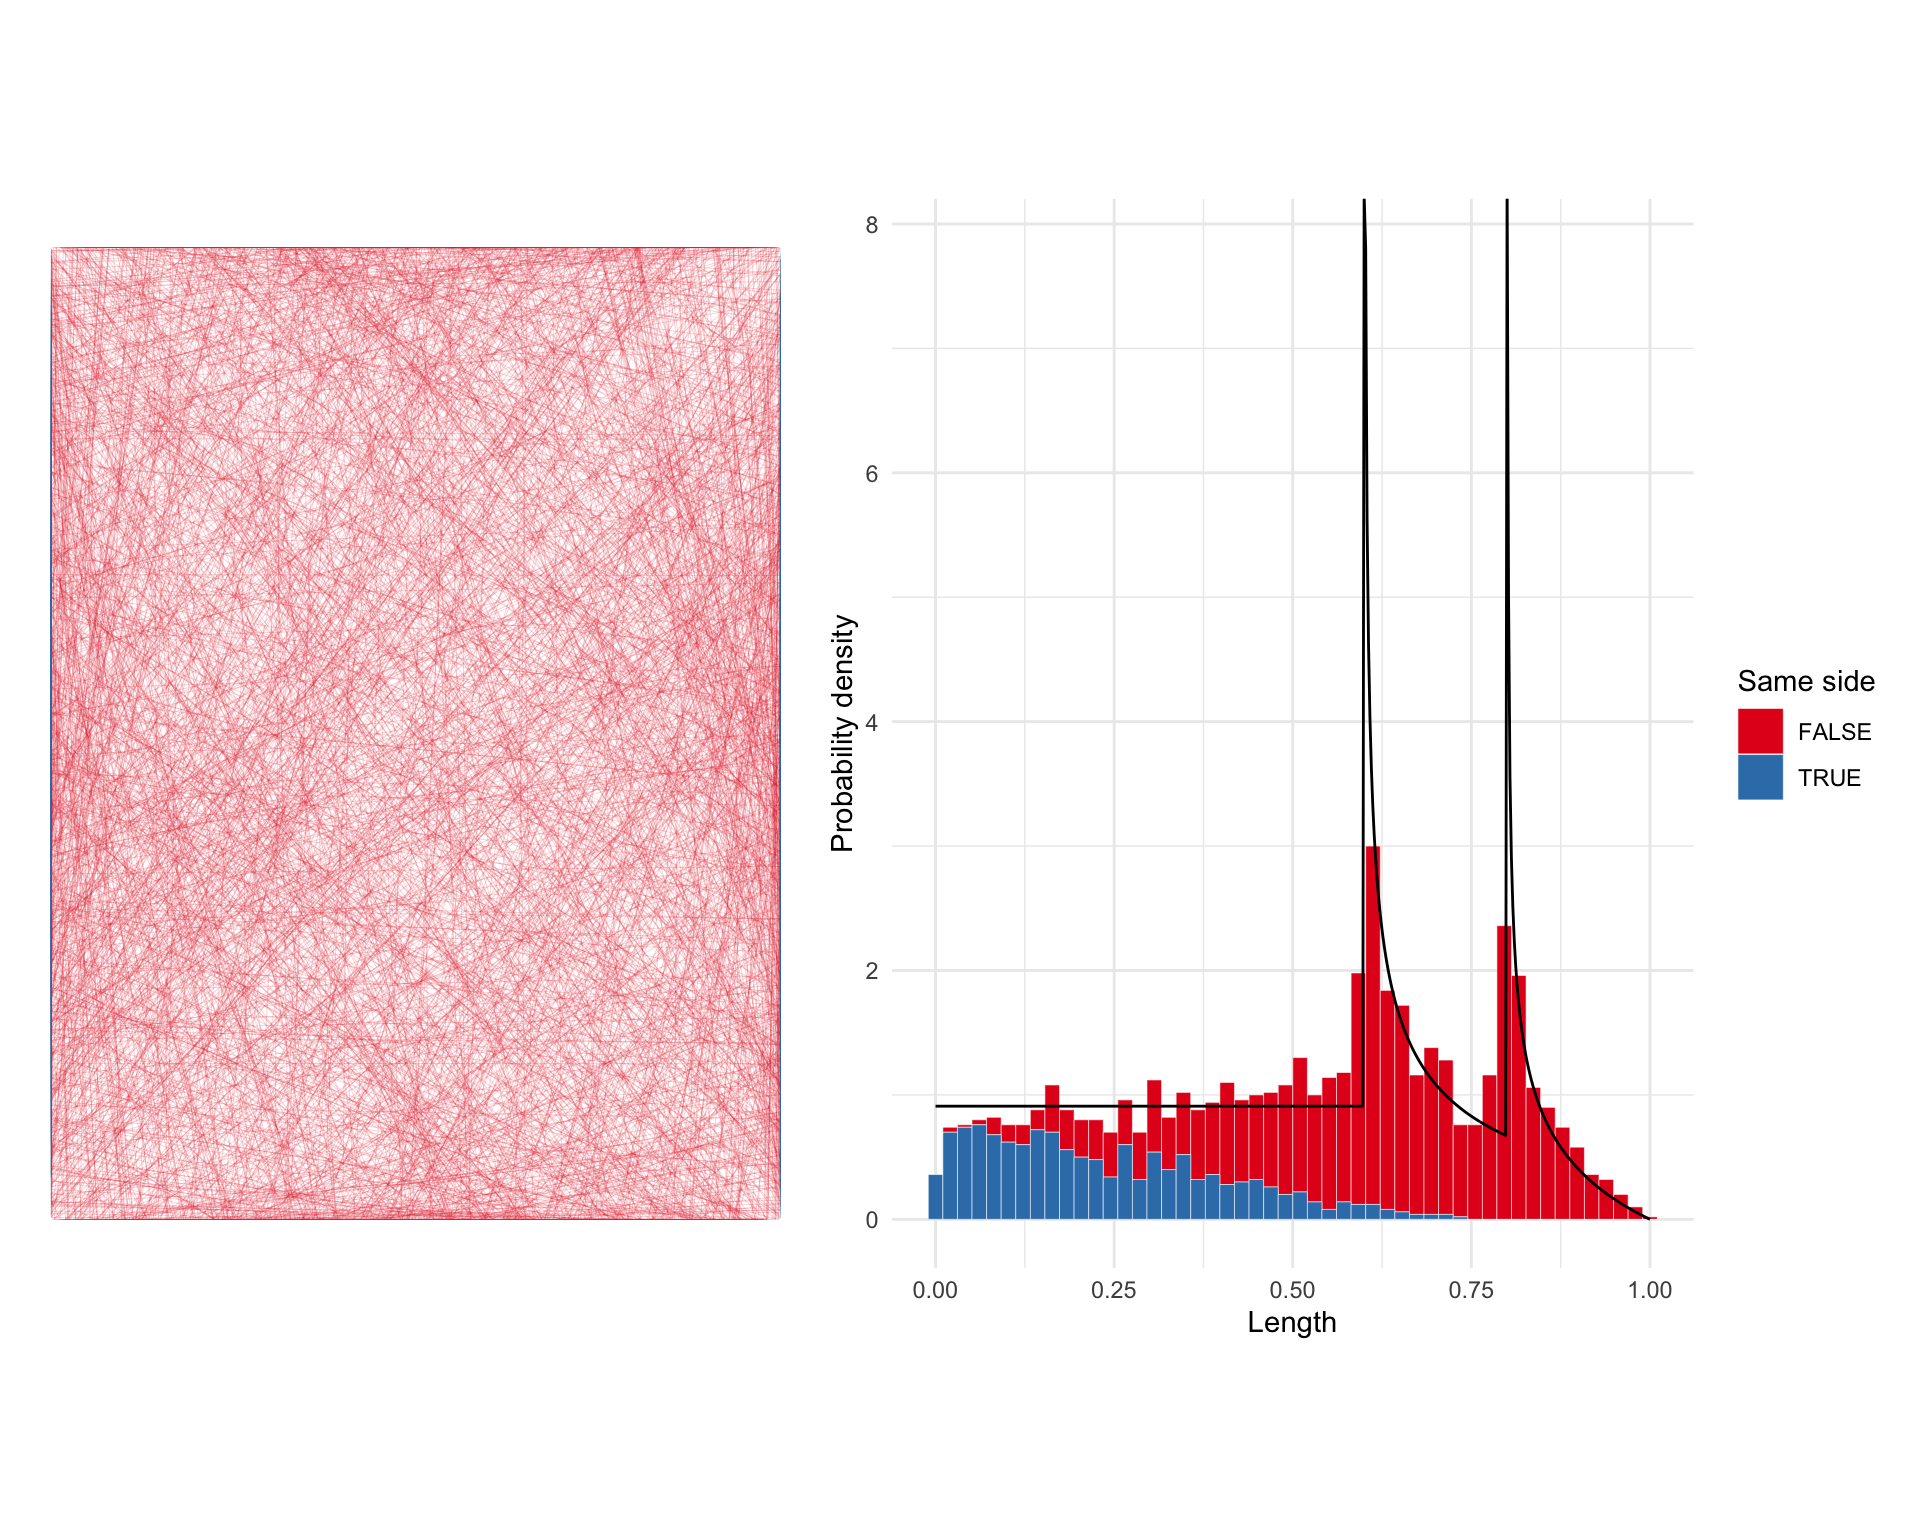
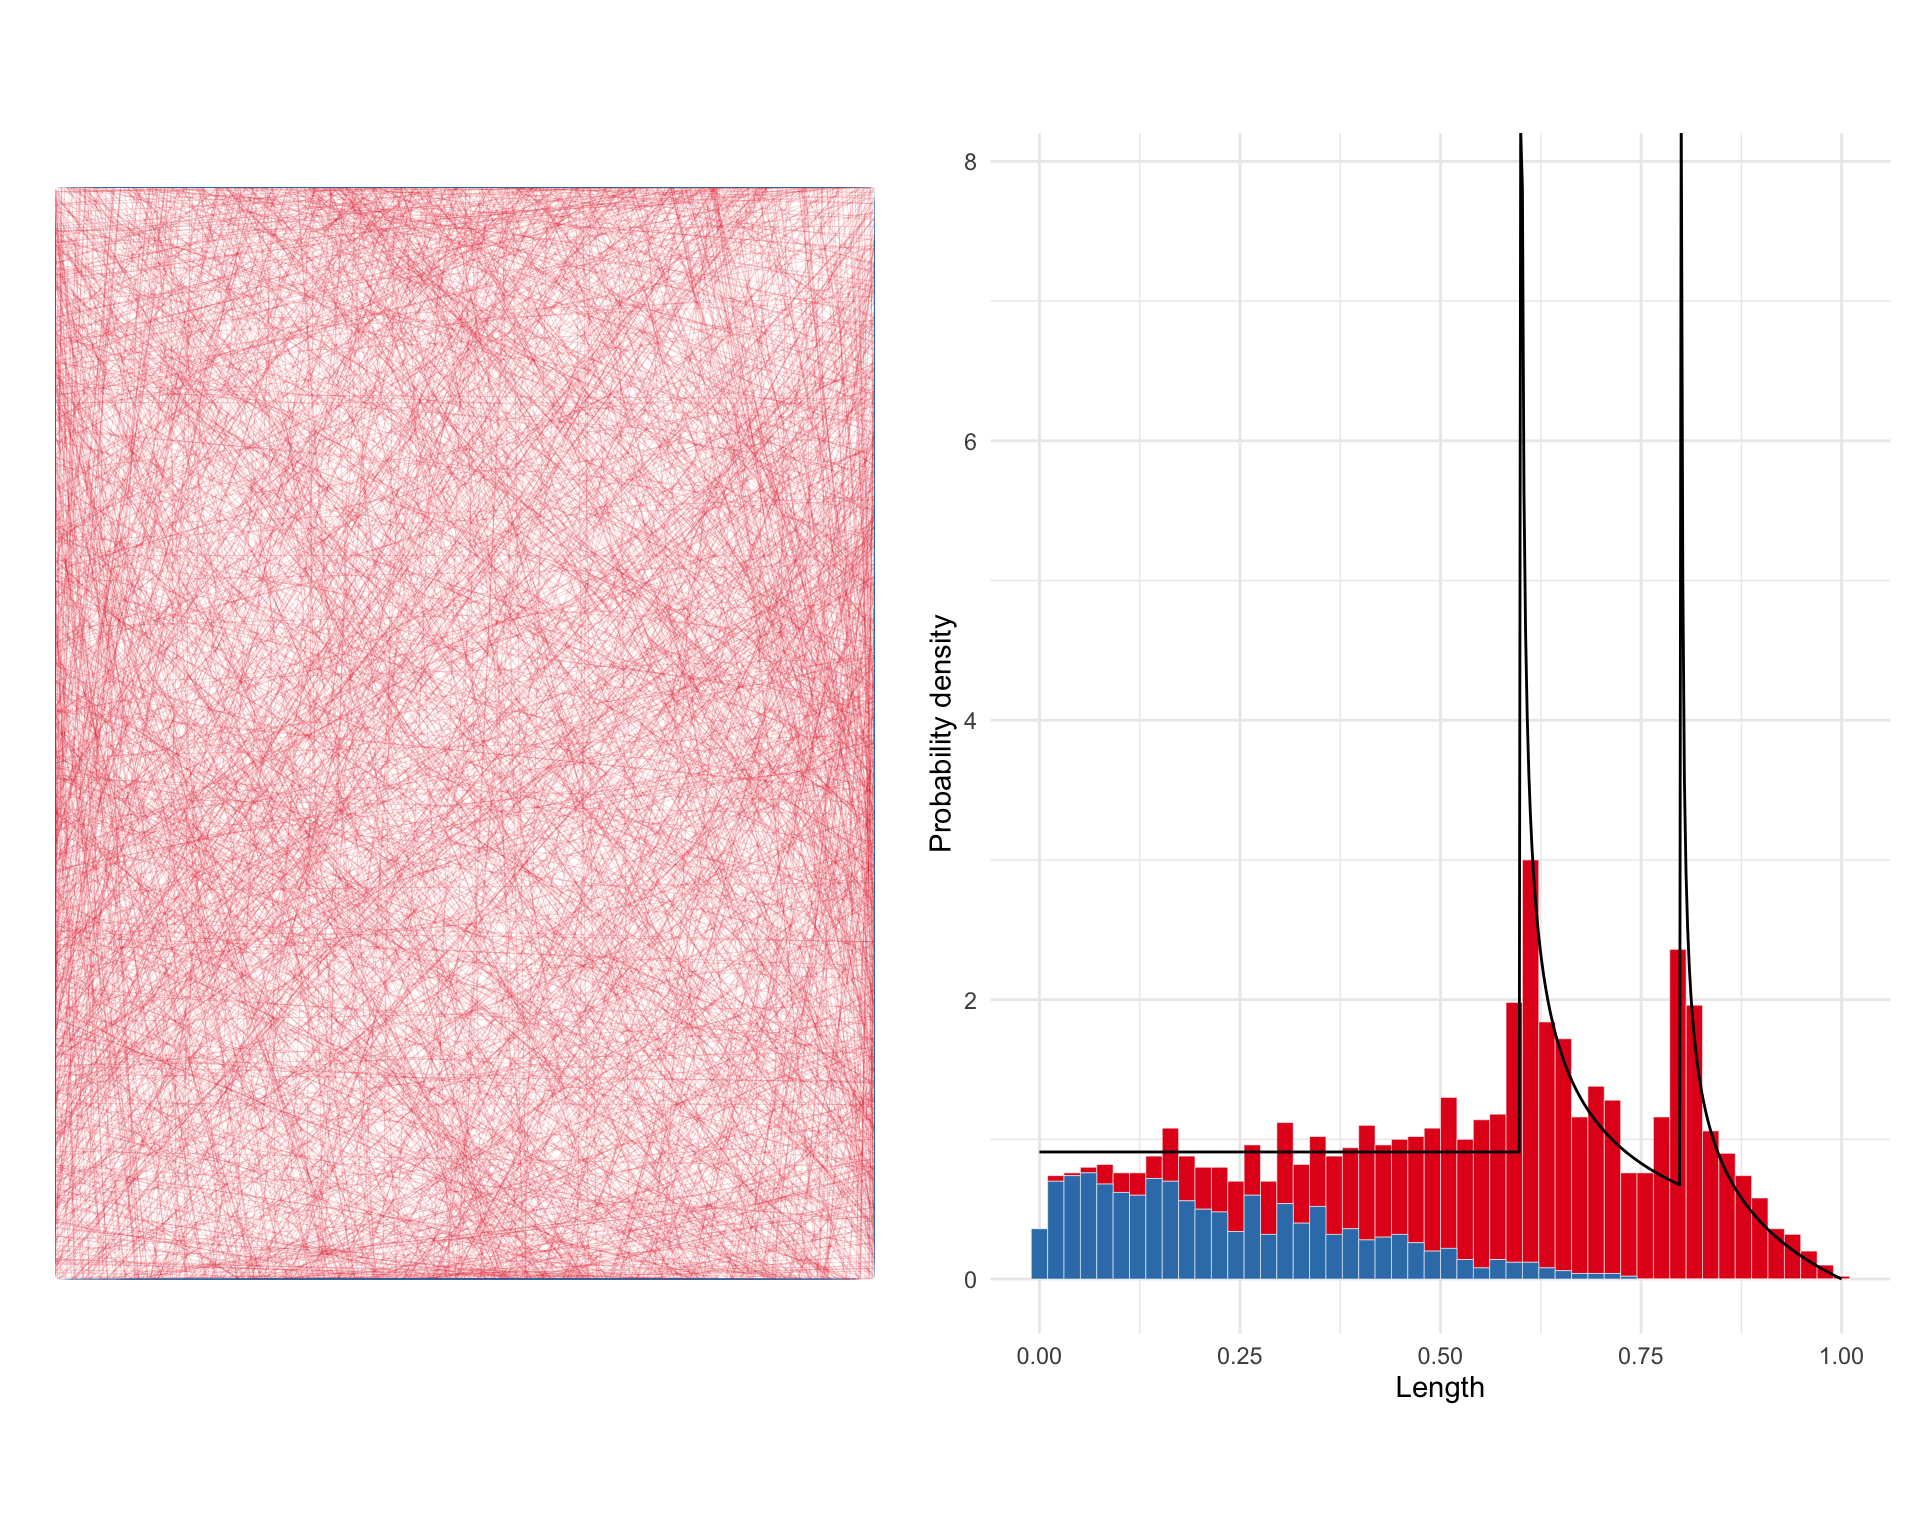
some edits to line lengths post

diff --git a/docs/posts/2026/04/29/index.html b/docs/posts/2026/04/29/index.html
@@ -336,7 +336,7 @@ p(l) = \frac{2}{\pi(W+H)}\left[\frac{WH}{l\sqrt{l^2-H^2}}-\frac{\sqrt{l^2-H^2}}{
 <p><span class="math display">\[
 p(l) = \frac{2}{\pi(W+H)}\left(\left[\frac{WH}{l\sqrt{l^2-H^2}}-\frac{\sqrt{l^2-H^2}}{l}\right] + \left[\frac{WH}{l\sqrt{l^2-W^2}}-\frac{\sqrt{l^2-W^2}}{l}\right]\right)
 \]</span></p>
-<p>We can implement a function to return this value for a given length and width and height of a space. We’ll use this a bit later.</p>
+<p>We can implement a function to return this value for a given length and width and height of a space. I’ve tidied up Horowitz’s factorisation of the calculations a bit, which is why the calculations in the code look a bit different than they do in the above equations.</p>
 <div class="cell">
 <details open="" class="code-fold">
 <summary>Code</summary>
@@ -361,7 +361,7 @@ p(l) = \frac{2}{\pi(W+H)}\left(\left[\frac{WH}{l\sqrt{l^2-H^2}}-\frac{\sqrt{l^2-
 <span id="cb2-19"><a href="#cb2-19" aria-hidden="true" tabindex="-1"></a>}</span></code></pre></div><button title="Copy to Clipboard" class="code-copy-button"><i class="bi"></i></button></div>
 </details>
 </div>
-<p>Since we’re going to be drawing lines across a rectangle, it’s convenient to have a function for making a rectangle shape.</p>
+<p>We’ll use this a bit later on. Meanwhile, since we’re going to be drawing lines across a rectangle, it’s convenient to have a function for making a rectangle shape.</p>
 <div class="cell">
 <details open="" class="code-fold">
 <summary>Code</summary>
@@ -449,7 +449,7 @@ Figure&nbsp;1: Random lines across a rectangular space and the theoretical and e
 </div>
 </div>
 </div>
-<p>That minor issue I mentioned is that nothing in the line generation code prevents a line entering and exiting the space along the same side of the rectangle. We can see this if we tag each line with a flag indicating if it’s one of those ‘same side’ lines or not.</p>
+<p>A minor issue with this is that nothing in the line generation code prevents a line entering and exiting the space along the same side of the rectangle. We can see this if we tag each line with a flag indicating if it’s one of those ‘same side’ lines or not.</p>
 <div class="cell">
 <details class="code-fold">
 <summary>Code</summary>
@@ -472,9 +472,10 @@ Figure&nbsp;1: Random lines across a rectangular space and the theoretical and e
 <span id="cb8-17"><a href="#cb8-17" aria-hidden="true" tabindex="-1"></a>  <span class="fu">geom_line</span>(<span class="at">data =</span> prob, <span class="fu">aes</span>(<span class="at">x =</span> d, <span class="at">y =</span> p)) <span class="sc">+</span></span>
 <span id="cb8-18"><a href="#cb8-18" aria-hidden="true" tabindex="-1"></a>  <span class="fu">xlab</span>(<span class="st">"Length"</span>) <span class="sc">+</span></span>
 <span id="cb8-19"><a href="#cb8-19" aria-hidden="true" tabindex="-1"></a>  <span class="fu">ylab</span>(<span class="st">"Probability density"</span>) <span class="sc">+</span></span>
-<span id="cb8-20"><a href="#cb8-20" aria-hidden="true" tabindex="-1"></a>  <span class="fu">theme_minimal</span>()</span>
-<span id="cb8-21"><a href="#cb8-21" aria-hidden="true" tabindex="-1"></a></span>
-<span id="cb8-22"><a href="#cb8-22" aria-hidden="true" tabindex="-1"></a>g3 <span class="sc">|</span> g4</span></code></pre></div><button title="Copy to Clipboard" class="code-copy-button"><i class="bi"></i></button></div>
+<span id="cb8-20"><a href="#cb8-20" aria-hidden="true" tabindex="-1"></a>  <span class="fu">guides</span>(<span class="at">fill =</span> <span class="st">"none"</span>) <span class="sc">+</span></span>
+<span id="cb8-21"><a href="#cb8-21" aria-hidden="true" tabindex="-1"></a>  <span class="fu">theme_minimal</span>()</span>
+<span id="cb8-22"><a href="#cb8-22" aria-hidden="true" tabindex="-1"></a></span>
+<span id="cb8-23"><a href="#cb8-23" aria-hidden="true" tabindex="-1"></a>g3 <span class="sc">|</span> g4</span></code></pre></div><button title="Copy to Clipboard" class="code-copy-button"><i class="bi"></i></button></div>
 </details>
 <div class="cell-output-display">
 <div id="fig-second-plot" class="quarto-float quarto-figure quarto-figure-center anchored">
@@ -490,7 +491,7 @@ Figure&nbsp;2: Random lines across a rectangular space and the theoretical and e
 </div>
 </div>
 <p>Looking at the results a bit more closely in this way, we realise that Horowitz’s result doesn’t take into consideration the question of whether lines enter and exit the space on two different sides, or put another way whether they are properly contained by the space.</p>
-<p>Depending on the application this might be relevant or not, so it’s good to note this subtlety. It’s a topic developed further in a paper by Peter Taylor,<a href="#fn4" class="footnote-ref" id="fnref4" role="doc-noteref"><sup>4</sup></a> cited in our discussion of the ‘Horowitz distribution’ in <em>Geographic Information Analysis</em>, which approaches the problem through simulation.</p>
+<p>Depending on the application this might be relevant or not, so it’s good to note this subtlety. It’s a topic developed further in a paper by Peter Taylor,<a href="#fn4" class="footnote-ref" id="fnref4" role="doc-noteref"><sup>4</sup></a>, which approaches the general problem through simulation.</p>
 </section>
 <section id="lines-across-any-space" class="level2">
 <h2 class="anchored" data-anchor-id="lines-across-any-space">Lines across any space</h2>
@@ -600,7 +601,9 @@ Figure&nbsp;4: Random lines across New Zealand’s two big islands.
 </div>
 </div>
 </div>
-<p>In effect the North Island is a lot less convex than the South Island and most of the longest potential lines between its farthest flung points are not wholly contained within the island. The South Island is roughly rectangular, and its longest ‘diagonals’ can be contained within the bounds of the island. That patch of red in the middle of the North Island is Lake Taupō which also stops a lot of the potential longest lines being fully contained within the island (if a line crosses a hole in the island, then it’s not considered as ‘contained’). Most of the blocked long lines in the South Island are also blocked by lakes in this way.</p>
+<p>In effect the North Island is a lot less convex than the South Island and most of the longest potential lines between its farthest flung points are not wholly contained within the island.</p>
+<p>The South Island is roughly rectangular, and its longest ‘diagonals’ can be contained within the bounds of the island. If you squint, you can even see the South Island distribution as somewhat aligning with Horowitz’s theoretical distribution for lines across a rectangle with width around 150km and length around 600km! Of course, since these data are not for lines <em>crossing</em> the island, but for lines <em>within</em> it the frequency of short lines is boosted substantially.<a href="#fn5" class="footnote-ref" id="fnref5" role="doc-noteref"><sup>5</sup></a></p>
+<p>Also worth noting is that the patch of red in the middle of the North Island is Lake Taupō, which stops a lot of the potential longest lines being fully contained within the island (if a line crosses a ‘hole’, then it’s not considered as ‘contained’). Most of the blocked long lines in the South Island are also blocked by lakes in this way.</p>
 </section>
 <section id="and-the-point-to-all-this-is" class="level2">
 <h2 class="anchored" data-anchor-id="and-the-point-to-all-this-is">And the point to all this is?</h2>
@@ -644,6 +647,7 @@ Figure&nbsp;4: Random lines across New Zealand’s two big islands.
 <li id="fn2"><p>Page 169 in Horowitz M. 1965.Probability of random paths across elementary geometrical shapes. <em>Journal of Applied Probability</em> <strong>2</strong>(1), 169–177. doi:<a href="https://doi.org/10.2307/3211882">10.2307/3211882</a>.<a href="#fnref2" class="footnote-back" role="doc-backlink">↩︎</a></p></li>
 <li id="fn3"><p>There’s a minor issue with this approach which we’ll get to.<a href="#fnref3" class="footnote-back" role="doc-backlink">↩︎</a></p></li>
 <li id="fn4"><p>Taylor PJ. 1971. Distances within shapes: An introduction to a family of finite frequency distributions. <em>Geografiska Annaler. Series B, Human Geography</em> <strong>53</strong>(1), 40–53. doi: <a href="https://doi.org/10.2307/490886">10.2307/490886</a><a href="#fnref4" class="footnote-back" role="doc-backlink">↩︎</a></p></li>
+<li id="fn5"><p>An interesting exercise might be to modify the code for either or both the rectangle and South Island cases to show equivalent crossing and within distributions.<a href="#fnref5" class="footnote-back" role="doc-backlink">↩︎</a></p></li>
 </ol>
 </section></div></main> <!-- /main -->
 <script id="quarto-html-after-body" type="application/javascript">

diff --git a/docs/blog.html b/docs/blog.html
@@ -269,7 +269,7 @@ window.Quarto = {
 
 <div class="quarto-listing quarto-listing-container-default" id="listing-listing">
 <div class="list quarto-listing-default">
[2 lines of base64/hex data omitted]
 <div class="thumbnail"><a href="./posts/2026/04/29/index.html" class="no-external">
 
 <p class="card-img-top"><img src="posts/2026/04/29/index_files/figure-html/fig-first-plot-1.png"  class="thumbnail-image card-img"/></p>